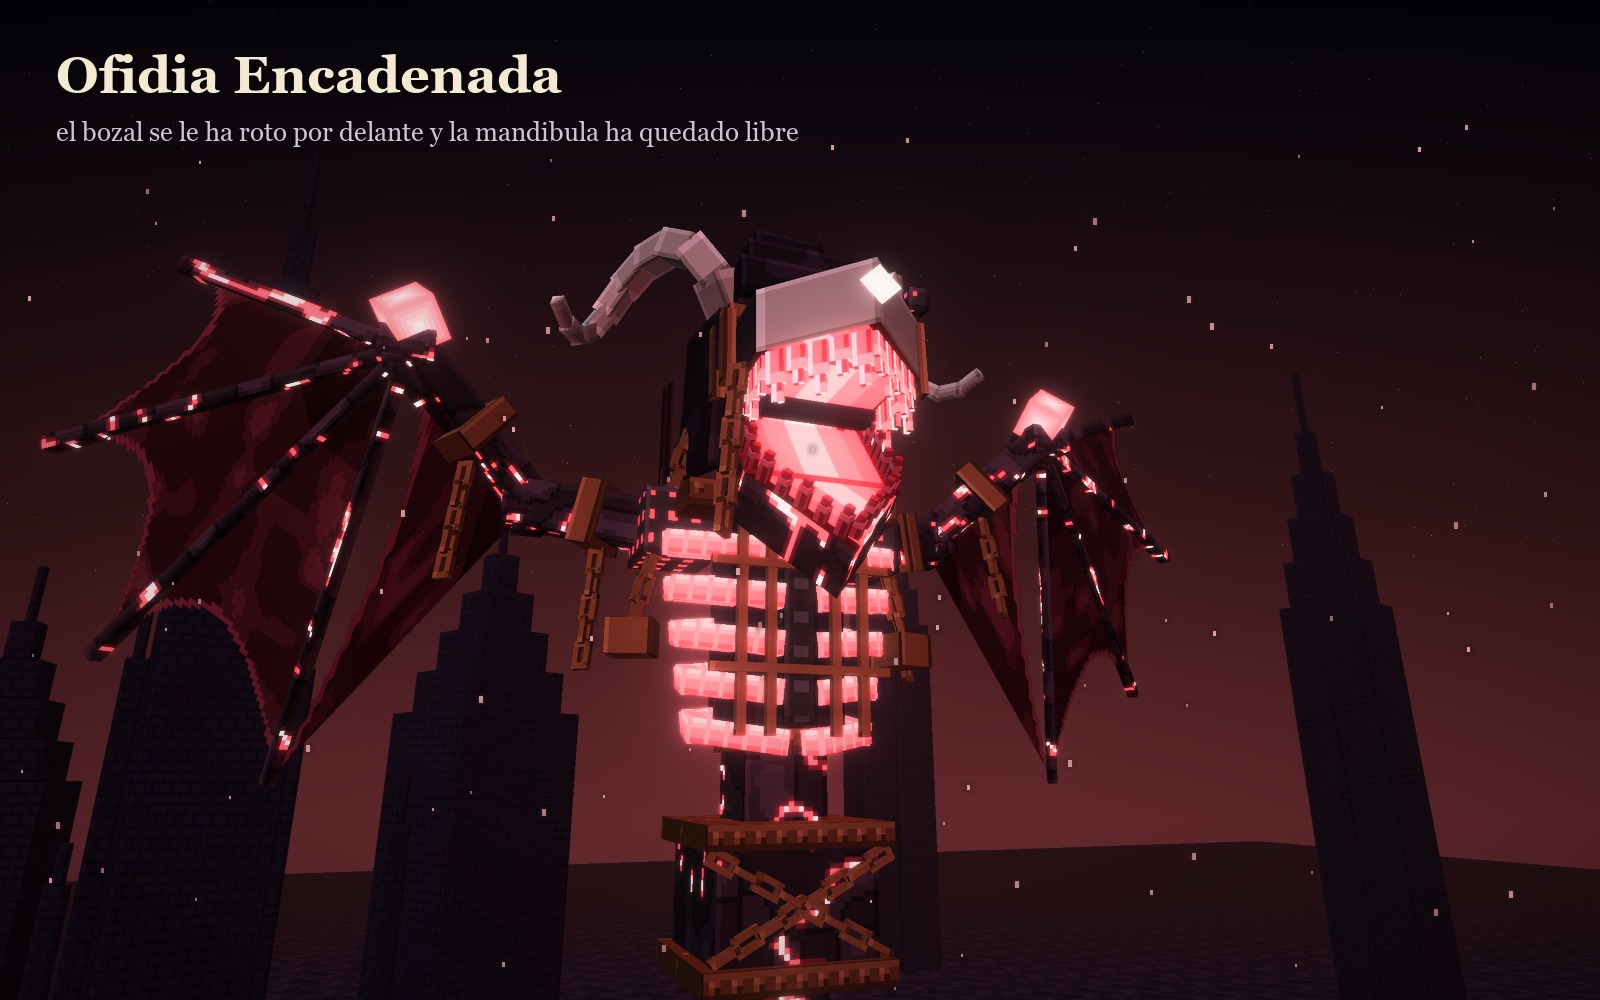
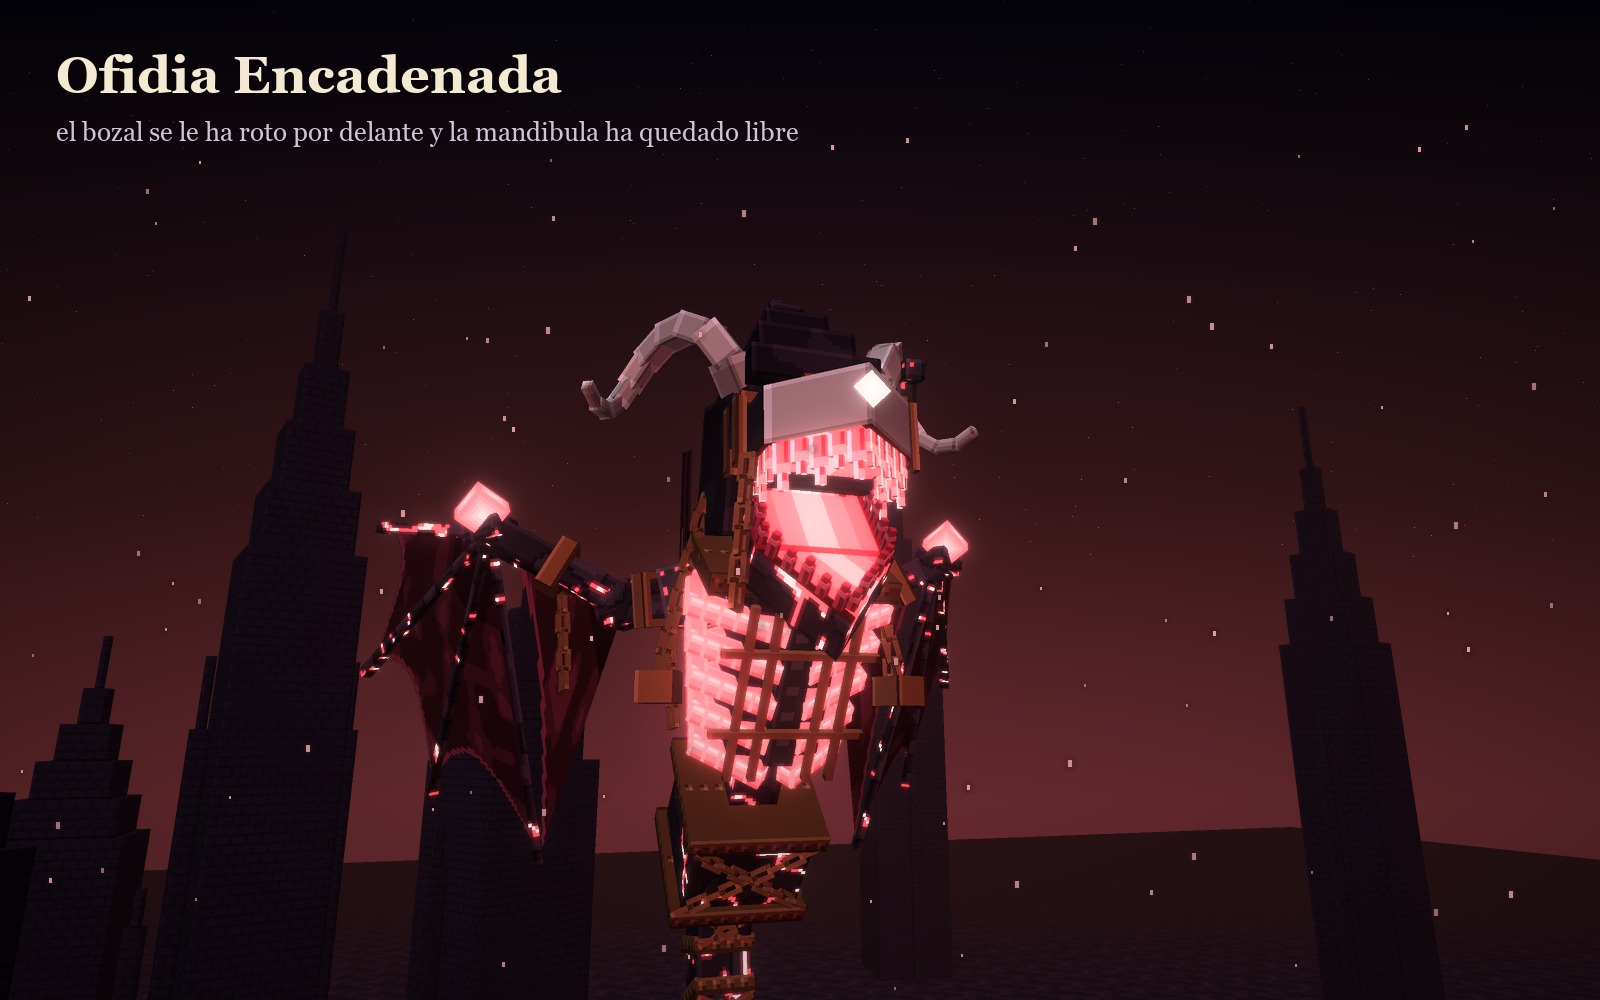
Ofidia sheet: S-shaped pose, thinner waist, longer body
Gives Ofidia the S pose from Juan's sketch instead of the stiff
upright one. The head sits on top facing forward with the wings open
and swept a little back; the torso leans forward; below it the body
goes down and back, comes forward again and the tail ends going back
with the red fin. She still hovers above the ground.

The body below the chest now follows that S curve (cuerpo_ese()):
the waist, now the thinnest part, one drum a bit bigger, and the tail
as thin drums that narrow toward the fin, each with its riveted belt.
The body is longer so the S fits, about 38 blocks tall with the lures.
The hero and scale views look at her from three-quarters so the S is
visible.

Changed region(s): [[0.0, 0.217, 0.8438, 1.0], [0.7812, 0.465, 0.875, 0.775], [0.875, 0.682, 1.0, 0.868]]

diff --git a/materiales/generadores/ofidia_modelo.py b/materiales/generadores/ofidia_modelo.py
@@ -13,13 +13,14 @@ bien su portada».
       cinturones granates con remaches, que cuelga del cinturon de la cintura, hace una ese
       suave y acaba en una aleta roja de hojas en abanico;
     - la cintura: un cinturon con remaches;
-    - de abajo arriba, como dijo Juan («pequeno, un poco grande, pequeno de vuelta y luego sigue
-      lo demas, sus costillas»): la aleta roja; la cola, tramos finos con la rodilla hacia
-      delante; un tambor un poco mas grande; otro pequeno, igual que el tramo de arriba de la
-      cola (la cintura); y, encima, el costillar, que es solo costillas: cinco pares de barras
-      rosas gruesas que brillan, con el canto blanco, que se abren hacia arriba, con huecos
-      oscuros entre ellas, la columna detras y el esternon delante; encima, sin apenas cuello,
-      la cabeza. Es alta y esbelta;
+    - la pose, en ese de perfil (el dibujo de Juan): la cabeza arriba mirando al frente y las
+      alas abiertas un poco hacia atras; el torso se echa hacia delante; debajo, el cuerpo baja
+      hacia atras, vuelve hacia delante y al final la cola se va hacia atras con la aleta roja;
+    - de arriba abajo, por la ese («pequeno, un poco grande, pequeno de vuelta y luego sigue lo
+      demas»): el costillar, que es solo costillas (cinco pares de barras rosas gruesas que
+      brillan, con el canto blanco, que se abren hacia arriba, con huecos oscuros entre ellas,
+      la columna detras y el esternon delante); la cintura, lo mas fino; un tambor un poco mas
+      grande; y la cola, tramos finos que se estrechan hasta la aleta. Es larga y esbelta;
     - dos alas de murcielago: el brazo (codo hacia atras, muneca hacia delante con un cubo rosa
       encendido por pulgar) y cuatro dedos largos en abanico, con la membrana azul noche tendida
       solo entre ellos y el borde libre en arcos (nada en las axilas);
@@ -473,43 +474,69 @@ def _jirones(out, a, b, largo, P, semilla=0, vuelo=(0.0, 0.0, 0.0)):
 # ----------------------------------------------------------------------
 #  La cola: tambores de marmol con su cinturon, enroscada en el suelo y alzandose
 # ----------------------------------------------------------------------
-CINTURA = 1.08                    # el grueso de la cintura, igual que el tramo de arriba de la cola
-COLA = [(0.0, 13.6, 0.0), (0.0, 11.4, 0.3), (0.0, 9.2, 1.3), (0.0, 7.2, 1.4), (0.0, 5.6, 0.4), (0.0, 4.6, -0.9)]
+CINTURA = 0.8                     # la cintura, lo mas fino del cuerpo
+INCLINA = 32.0                    # el torso se echa hacia delante (grados)
+ANCLA = np.array((0.0, 23.0, 0.0))  # la base del costillar: de aqui cuelga el cuerpo en ese
+
+# la ese, de perfil, desde la base del costillar hasta la aleta: baja hacia atras, vuelve hacia
+# delante y al final la cola se va hacia atras, como en el dibujo de Juan
+ESE = [(0.0, 23.0, 0.0), (0.0, 20.9, -1.7), (0.0, 17.6, -4.6), (0.0, 13.9, -4.4), (0.0, 10.6, -1.4), (0.0, 7.9, 1.8),
+       (0.0, 5.6, 2.6), (0.0, 4.0, 1.0), (0.0, 3.3, -2.0), (0.0, 3.2, -5.6)]
 
 
-def cola(out, V, P):
-    """La cola: tramos finos de marmol, cada uno con su cinturon, que bajan con la rodilla hacia
-    delante hasta la aleta roja. El de arriba es igual que la cintura."""
-    pts = sm._por_longitud(COLA, 1.6)
+def _cortes(ctrl, cortes, paso):
+    """Puntos a lo largo de la curva: primero en las longitudes de 'cortes' y despues cada 'paso'
+    hasta el final."""
+    pts, _ = em.catmull(ctrl, 800)
+    pts = [np.asarray(p, float) for p in pts]
+    L = [0.0]
+    for a, b in zip(pts, pts[1:]):
+        L.append(L[-1] + float(np.linalg.norm(b - a)))
+    total = L[-1]
+    marcas = list(cortes)
+    while marcas[-1] + paso < total - 0.3:
+        marcas.append(marcas[-1] + paso)
+    marcas.append(total)
+    out = []
+    for m in marcas:
+        i = min(int(np.searchsorted(L, m)), len(pts) - 1)
+        if i == 0:
+            out.append(pts[0])
+            continue
+        f = (m - L[i - 1]) / max(L[i] - L[i - 1], 1e-9)
+        out.append(pts[i - 1] + (pts[i] - pts[i - 1]) * f)
+    return out
+
+
+def cuerpo_ese(out, V, P):
+    """De la base del costillar a la aleta, por la ese: la cintura (pequena), un tambor un poco
+    mas grande y la cola, tramos finos que se van estrechando, cada uno con su cinturon; al
+    final, la aleta roja que apunta hacia atras."""
+    pts = _cortes(ESE, (0.0, 2.2, 5.6), 1.55)
     marcos = sm._marcos(pts, (0, 0, 1))
     n = len(marcos)
     for i, M in enumerate(marcos):
-        t = i / max(n - 1, 1)
-        r = CINTURA - (CINTURA - 0.72) * t
         L = float(np.linalg.norm(pts[i + 1] - pts[i]))
+        if i == 0:
+            r = CINTURA                                                             # pequeno: la cintura
+        elif i == 1:
+            r = 1.95                                                                # un poco grande
+        else:
+            t = (i - 2) / max(n - 3, 1)
+            r = 0.95 - 0.3 * t                                                      # la cola, que se estrecha
         cubo(out, M, -r, -r, -0.15, 2 * r, 2 * r, L + 0.3, P['marmol'], semilla=i)
         rb = r * 1.16
         cubo(out, M @ vr.T(0, 0, -0.28), -rb, -rb, 0, 2 * rb, 2 * rb, 0.56, P['cinto'], semilla=i)
-        if V['clave'] == 'C' and i % 2 == 1:                                    # cadenas que cruzan el tambor
-            for s in (1, -1):
-                cadena(out, punto(M, (-s * r * 1.08, r * 1.08, 0.3)), punto(M, (s * r * 1.08, r * 1.08, L - 0.3)), 0.7,
+        if i == 1:                                                                 # el tambor grande, cenido abajo tambien
+            cubo(out, M @ vr.T(0, 0, L - 0.28), -rb, -rb, 0, 2 * rb, 2 * rb, 0.56, P['cinto'], semilla=i + 50)
+        if V['clave'] == 'C' and i >= 1 and i % 2 == 1:                           # cadenas que cruzan el tambor
+            for sx in (1, -1):
+                cadena(out, punto(M, (-sx * r * 1.08, r * 1.08, 0.3)), punto(M, (sx * r * 1.08, r * 1.08, L - 0.3)), 0.7,
                        P['oxido'], semilla=i)
     fin = pts[-1]
     t = pts[-1] - pts[-2]
     aleta(out, fin, t / np.linalg.norm(t), P)
     return pts
-
-
-def tambor(out, y0, y1, r, P, semilla=0, cadenas=False):
-    """Un tambor recto de marmol, de y0 a y1, con su cinturon de remaches en cada punta."""
-    cubo(out, vr.T(0, y0, 0), -r, 0, -r, 2 * r, y1 - y0, 2 * r, P['marmol'], semilla=semilla)
-    rb = r * 1.16
-    for y in (y0, y1):
-        cubo(out, vr.T(0, y - 0.28, 0), -rb, 0, -rb, 2 * rb, 0.56, 2 * rb, P['cinto'], semilla=semilla + 1)
-    if cadenas:
-        for sx in (1, -1):
-            cadena(out, np.array((-sx * r * 1.08, y0 + 0.4, r * 1.08)), np.array((sx * r * 1.08, y1 - 0.4, r * 1.08)), 0.7,
-                   P['oxido'], semilla=semilla)
 
 
 def aleta(out, p, t, P):
@@ -520,7 +547,7 @@ def aleta(out, p, t, P):
                                          (60, 2.7, 0.0), (-60, 2.7, 0.0), (10, 3.6, 0.7), (-10, 3.6, -0.7), (30, 3.0, -0.65),
                                          (-30, 3.0, 0.65), (50, 2.4, 0.5), (-50, 2.4, -0.5))):
         c, s_ = math.cos(math.radians(phi)), math.sin(math.radians(phi))
-        d = np.array((x, t[1] * c - t[2] * s_, t[1] * s_ + t[2] * c))
+        d = np.array((x * 0.6, t[1] * c - t[2] * s_, t[1] * s_ + t[2] * c))
         d = d / np.linalg.norm(d)
         Mb = em.marco(p, d, up=(1, 0, 0))
         w = 0.78 - 0.06 * abs(phi) / 20
@@ -537,20 +564,12 @@ def ofidia(variante='O'):
     P = pintores(V)
     k = V['clave']
     out = []
-    # de abajo arriba: la cola (con las caderas anchas arriba), el cinturon, la cintura estrecha
-    # (solo la columna) y, mas arriba, el costillar de solo costillas
-    cola(out, V, P)
-    # de abajo arriba: la cola (pequeno), un tambor un poco mas grande, otro pequeno igual que el
-    # de arriba de la cola (la cintura) y, encima, el costillar
-    tambor(out, 13.6, 16.6, 2.0, P, semilla=1, cadenas=(k == 'C'))                              # un poco grande
-    tambor(out, 16.6, 18.8, CINTURA, P, semilla=3)                                              # pequeno de vuelta
-
-    # el costillar: la columna detras, el esternon delante y cinco pares de costillas gruesas que
-    # se abren hacia arriba (estrecho abajo, ancho arriba), con huecos oscuros entre ellas
+    # el torso (costillar y hombros) se hace derecho y luego se echa hacia delante sobre la base
+    torso = []
     Mt = vr.T(0, 21.75, 0.0) @ np.diag([1.0, 1.12, 1.0, 1.0])
-    cubo(out, Mt, -0.55, -2.6, -1.85, 1.1, 5.3, 0.95, P['columna'], semilla=4)                    # la columna
-    cubo(out, Mt, -0.45, -2.3, 1.55, 0.9, 4.8, 0.55, P['columna'], semilla=5)                     # el esternon
-    cubo(out, Mt, -1.45, -2.4, -1.2, 2.9, 4.8, 2.6, P['capucha'], semilla=6)                      # lo de dentro, oscuro
+    cubo(torso, Mt, -0.55, -2.6, -1.85, 1.1, 5.3, 0.95, P['columna'], semilla=4)                  # la columna
+    cubo(torso, Mt, -0.45, -2.3, 1.55, 0.9, 4.8, 0.55, P['columna'], semilla=5)                   # el esternon
+    cubo(torso, Mt, -1.45, -2.4, -1.2, 2.9, 4.8, 2.6, P['capucha'], semilla=6)                    # lo de dentro, oscuro
     for j, y in enumerate((-2.1, -1.05, 0.0, 1.05, 2.1)):
         a = 1.95 + 0.2 * j                                                                      # media anchura de la costilla
         for sx in (1, -1):
@@ -559,21 +578,32 @@ def ofidia(variante='O'):
             p2 = punto(Mt, (sx * (a + 0.2), y - 0.35, 0.6))
             p3 = punto(Mt, (sx * 0.5, y - 0.6, 1.8))
             for q, (pa, pb) in enumerate(((p0, p1), (p1, p2), (p2, p3))):
-                viga(out, pa, pb, 0.6, 0.6, P['costilla'], extra=0.2, semilla=7 + j + q)
-    cubo(out, Mt, -2.9, 2.45, -1.7, 5.8, 0.6, 3.5, P['cinto'], semilla=13)                        # los hombros
+                viga(torso, pa, pb, 0.6, 0.6, P['costilla'], extra=0.2, semilla=7 + j + q)
+    cubo(torso, Mt, -2.9, 2.45, -1.7, 5.8, 0.6, 3.5, P['cinto'], semilla=13)                      # los hombros
     if k == 'C':                                                                                  # barrotes: el pecho es una celda
         for x in (-1.6, -0.85, 0.85, 1.6):
-            viga(out, punto(Mt, (x, 2.4, 2.25)), punto(Mt, (x, -2.6, 2.25)), 0.24, 0.24, P['oxido'], semilla=14)
+            viga(torso, punto(Mt, (x, 2.4, 2.25)), punto(Mt, (x, -2.6, 2.25)), 0.24, 0.24, P['oxido'], semilla=14)
         for y in (1.1, -1.2):
-            viga(out, punto(Mt, (-2.4, y, 2.3)), punto(Mt, (2.4, y, 2.3)), 0.22, 0.22, P['oxido'], semilla=15)
+            viga(torso, punto(Mt, (-2.4, y, 2.3)), punto(Mt, (2.4, y, 2.3)), 0.22, 0.22, P['oxido'], semilla=15)
+    G = vr.T(*ANCLA) @ vr.Rx(INCLINA * D) @ vr.T(0, -18.8, 0)
+    out += qm.transformar(torso, G)
 
-    # las dos alas, abiertas a los lados, desde los hombros
+    # las alas, abiertas a los lados y un poco hacia atras, a nivel (no se inclinan con el torso)
+    hombros = np.array((0.0, 24.4, -0.8))
     for s in (1, -1):
-        ala(out, s, V, P, dy=8.4)
+        alas = []
+        ala(alas, s, V, P, dy=8.4)
+        Mal = vr.T(*punto(G, hombros)) @ vr.Ry(s * 34 * D) @ vr.Rz(-s * 14 * D) @ vr.T(*(-hombros))
+        out += qm.transformar(alas, Mal)
 
-    # el cuello, corto, y la cabeza justo encima del costillar
-    viga(out, np.array((0, 24.7, 0.0)), np.array((0, 26.2, 0.9)), 1.8, 1.8, P['marmol'], extra=0.3, semilla=40)
-    Mh = em.marco(np.array((0.0, 27.5, 2.0)), (0.0, -0.2, 1.0)) @ np.diag([1.05, 1.05, 1.05, 1.0])
+    # el cuerpo en ese, de la base del costillar a la aleta
+    cuerpo_ese(out, V, P)
+
+    # el cuello, corto, y la cabeza encima del costillar, mirando al frente
+    arriba = punto(G, (0.0, 24.9, 0.0))
+    Hc = arriba + np.array((0.0, 2.5, 1.3))
+    viga(out, arriba - np.array((0.0, 0.3, 0.0)), Hc + np.array((0.0, -1.0, -1.3)), 1.8, 1.8, P['marmol'], extra=0.3, semilla=40)
+    Mh = em.marco(Hc, (0.0, -0.2, 1.0)) @ np.diag([1.05, 1.05, 1.05, 1.0])
     cabeza(out, Mh, V, P)
     if k == 'O':
         _corona_original(out, Mh, P)

diff --git a/materiales/generadores/ofidia_escenas.py b/materiales/generadores/ofidia_escenas.py
@@ -171,7 +171,7 @@ def guardar(img, nombre):
 
 NOMBRE = {'O': 'Ofidia, la original (estudio)', 'A': 'Ofidia de la Capucha', 'B': 'Ofidia de los Faroles', 'C': 'Ofidia Encadenada'}
 SUB_HEROE = {
-    'O': 'flota: cola fina, una pieza un poco grande, la cintura pequena, el costillar de solo costillas y alas de murcielago',
+    'O': 'en ese: la cabeza al frente, el costillar de costillas, la cintura fina y la cola que baja en ese hasta la aleta',
     'A': 'el mismo cuerpo; la capucha se abre en una capucha de cobra con dos ojos falsos; azul hielo',
     'B': 'el mismo cuerpo; los cebos son faroles con almas: en la cabeza, a los lados y en las alas',
     'C': 'el mismo cuerpo, encadenado: grilletes en las alas, barrotes en el pecho, bozal roto y cuernos',
@@ -182,8 +182,8 @@ SUB_CABEZA = {
     'B': 'de cada varilla cuelga un farol con un alma dentro',
     'C': 'el bozal se le ha roto por delante y la mandibula ha quedado libre',
 }
-CAMARA_HEROE = ((7.0, 5.0, 36.0), (0.0, 17.6, 0.0), 62)
-CAMARA_CABEZA = ((-8.0, 18.0, 23.0), (0.0, 24.8, 2.0), 58)
+CAMARA_HEROE = ((26.0, 6.0, 28.0), (0.0, 18.0, 0.5), 62)
+CAMARA_CABEZA = ((-9.0, 23.0, 30.0), (0.0, 30.0, 4.0), 56)
 
 
 def escena(cual, camara, nombre, sub, n_motas):
@@ -221,7 +221,7 @@ def cuatro():
     suelo(lz, cam, niebla, S, ext=280, paso=32, cerca=40)
     for cual, x in (('O', -60.0), ('A', -20.0), ('B', 20.0), ('C', 60.0)):
         qs, info = om.ofidia(cual)
-        om.dibujar(lz, cam, qm.transformar(qs, vr.T(x, 0, 0)), S['luces'], S['amb'], niebla)
+        om.dibujar(lz, cam, qm.transformar(qs, vr.T(x, 0, 0) @ vr.Ry(-50 * D)), S['luces'], S['amb'], niebla)
     nm.dibujar(lz, cam, nm.quads(ne.jugador(), {}, ne.jugador_a_mundo(0.0, 20.0, 0)), S['luces'], S['amb'], niebla)
     img = revelar(lz, cam, W, H, S, n_motas=0)
     P = np.array([p for q in om.ofidia('O')[0] for p in q[0]])
@@ -268,9 +268,9 @@ def materiales():
     guardar(img, 'materiales')
 
 
-CAMARA_CARTEL = ((-9.0, 15.5, 25.0), (0.0, 24.4, 2.0), 46)
-CAMARA_FRENTE = ((0.0, 19.0, 31.0), (0.0, 22.6, 2.0), 52)
-CAMARA_LADO = ((-60.0, 17.5, 2.0), (0.0, 17.5, 1.0), 44)
+CAMARA_CARTEL = ((-10.0, 20.5, 31.0), (0.0, 29.0, 4.0), 46)
+CAMARA_FRENTE = ((0.0, 23.0, 38.0), (0.0, 26.5, 3.0), 52)
+CAMARA_LADO = ((-62.0, 18.5, 1.0), (0.0, 18.5, 1.0), 44)
 
 
 def cartel(cual):

diff --git a/materiales/fichas/ofidia/LEEME.md b/materiales/fichas/ofidia/LEEME.md
@@ -5,7 +5,7 @@ Eufonia Studio. Su cartel oficial está en
 https://x.com/dedsafio/status/2109039127597560179.
 
 Juan pidió el 12-10-2026 recrearla igual y hacerle variantes propias, «para no copiarla
-como tal». Hicieron falta ocho versiones:
+como tal». Hicieron falta nueve versiones:
 
 1. La primera no se parecía: «fíjate bien cómo es Ofidia… date tu tiempo, investiga
    más».
@@ -25,9 +25,11 @@ como tal». Hicieron falta ocho versiones:
    portada y en los primeros planos del directo.
 7. La séptima ajustó las proporciones: «mejora la proporción del cuerpo, que debería ser
    primero pequeño y luego subir un poco más; en el pecho, solo mostrando sus costillas».
-8. Esta octava divide el cuerpo por tramos («es como pequeño, un poco grande, pequeño de
-   vuelta y luego sigue lo demás, sus costillas»). La hace más alta y alarga la mandíbula.
-   Las alas ya no tienen membrana en las axilas.
+8. La octava dividió el cuerpo por tramos («es como pequeño, un poco grande, pequeño de
+   vuelta y luego sigue lo demás, sus costillas»), la hizo más alta, alargó la mandíbula y
+   quitó la membrana de las axilas.
+9. Esta novena le da la pose en ese del dibujo de Juan («la pose está muy tiesa; vamos a
+   hacer que tenga una pose como una S»), con la cintura más fina y el cuerpo más largo.
 
 **La original es solo para estudiarla; no va al mod.** Las candidatas son las tres
 variantes. A Juan le gustó la Encadenada.
@@ -46,16 +48,23 @@ Las fuentes son cinco:
 
 En la forma de monstruo se ve:
 
-- **Flota erguida**, como una sirena; no se apoya en el suelo.
-- **El cuerpo va por tramos**, de abajo arriba, cada uno con su cinturón de remaches:
-  - la aleta roja;
-  - la cola: tramos finos, con la rodilla hacia delante (pequeño);
-  - un tambor un poco más grande;
-  - otro pequeño, igual que el tramo de arriba de la cola (la cintura);
-  - el pecho, encima;
-  - la cabeza, casi sin cuello.
+- **La pose, en ese** (el dibujo de Juan, de perfil):
+  - la cabeza arriba, mirando al frente, con las alas abiertas un poco hacia atrás;
+  - el torso se echa hacia delante;
+  - debajo, el cuerpo baja hacia atrás y vuelve hacia delante;
+  - al final, la cola se va hacia atrás con la aleta roja.
 
-  Es alta y esbelta: unos 35 bloques con los cebos y la aleta.
+  Flota: no toca el suelo.
+- **El cuerpo va por tramos**, de arriba abajo por la ese, cada uno con su cinturón de
+  remaches:
+  - la cabeza, casi sin cuello;
+  - el pecho;
+  - la cintura, lo más fino del cuerpo;
+  - un tambor un poco más grande;
+  - la cola: tramos finos que se estrechan;
+  - la aleta roja.
+
+  Es larga y esbelta: unos 38 bloques de alto con los cebos.
 - **El pecho es solo costillas**: cinco pares de costillas rosas gruesas que brillan, con
   el canto blanco y huecos oscuros entre ellas. Se abren hacia arriba (estrecho abajo,
   ancho arriba), con la columna detrás y el esternón oscuro delante.
